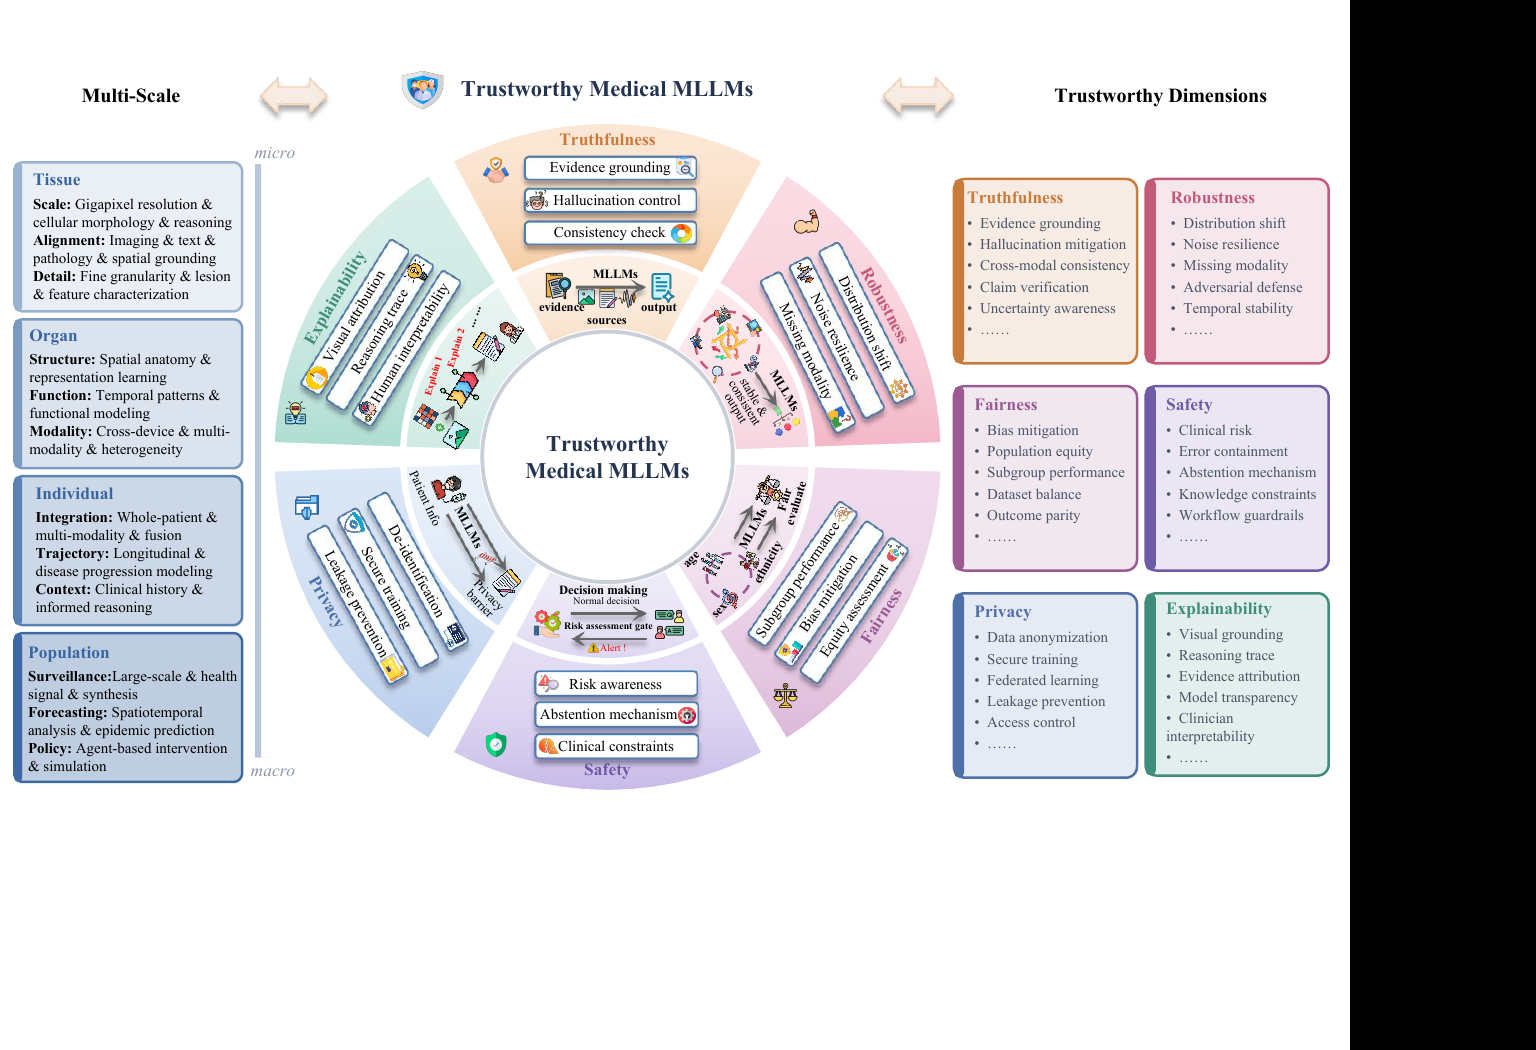
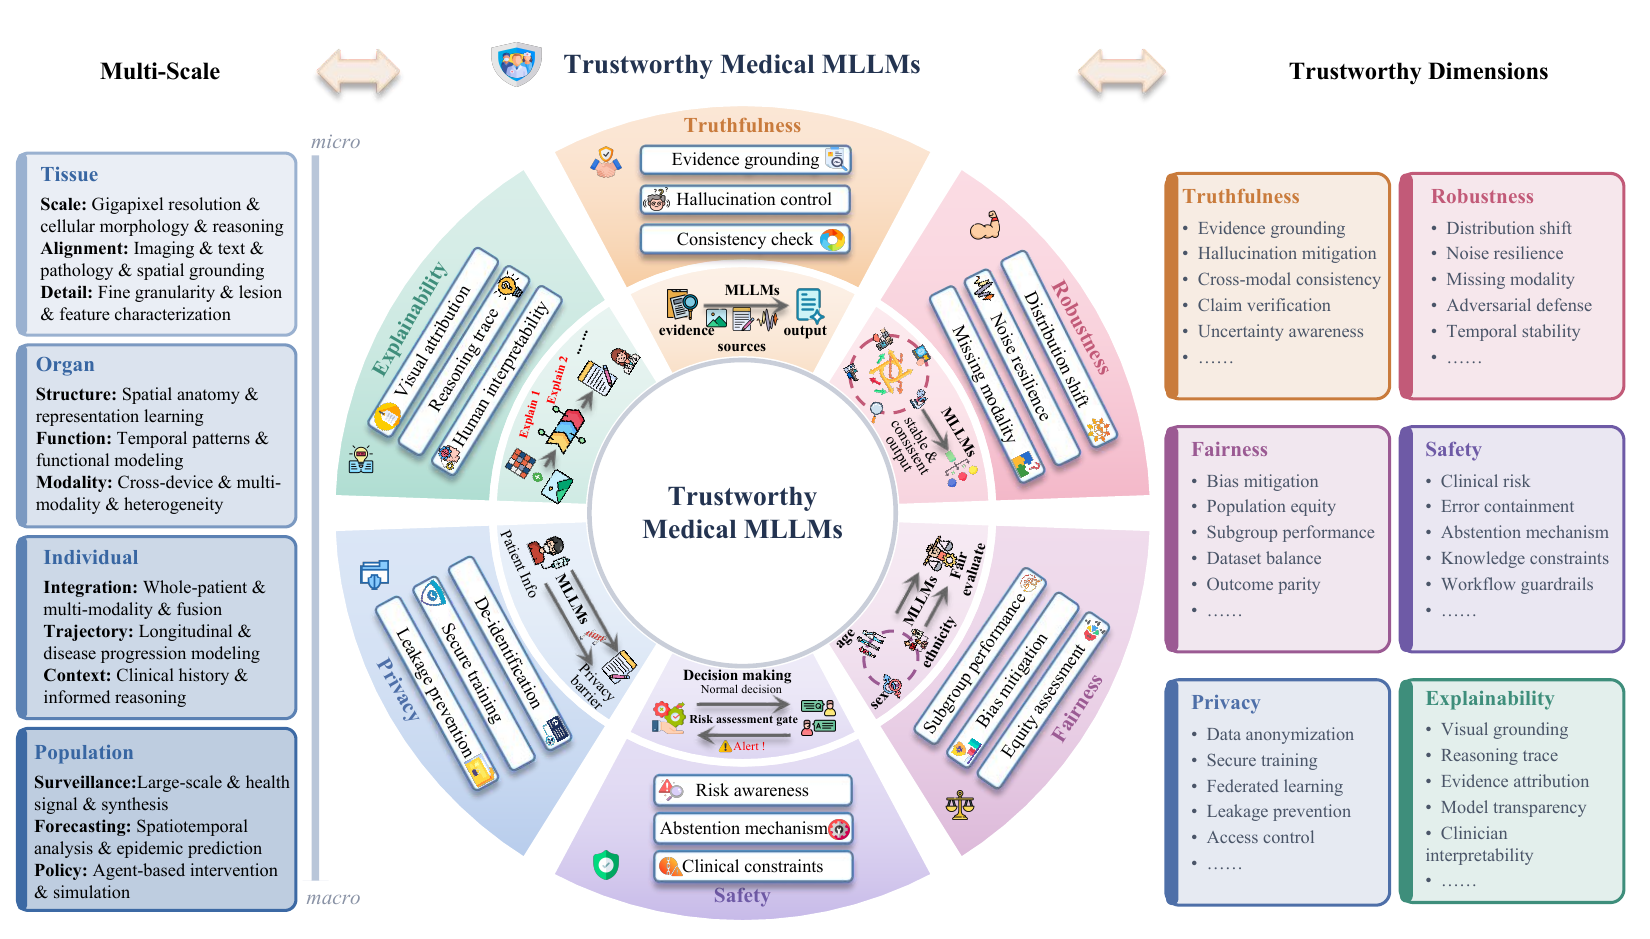
Add complete survey figure suite (#1)

diff --git a/README.md b/README.md
@@ -32,6 +32,7 @@ This is the official companion repository for **“Trustworthy Medical Multimoda
 
 ## 📢 News
 
+- **[2026-08-10]** 🖼 Published the complete seven-figure survey framework: overview plus six trustworthiness dimensions.
 - **[2026-08-10]** ✨ Established the official paper repository with a clear visual identity, quick navigation, and a contribution-ready taxonomy.
 - **[2026-08-10]** 🎉 Released the initial public list with curated seed papers, evaluation resources, and validation rules.
 
@@ -51,6 +52,8 @@ This is the official companion repository for **“Trustworthy Medical Multimoda
   - [1.3 Individual Scale](#13-individual-scale)
   - [1.4 Population Scale](#14-population-scale)
 - [2. Trustworthiness](#2-trustworthiness)
+  - [2.1 Dimension Frameworks](#21-dimension-frameworks)
+  - [2.2 Trustworthiness Methods and Resources](#22-trustworthiness-methods-and-resources)
 - [3. Evaluation and Benchmark](#3-evaluation-and-benchmark)
 - [4. Resources](#4-resources)
 - [How to Contribute](#how-to-contribute)
@@ -242,7 +245,7 @@ The entries below are an initial curated seed set from the current manuscript. T
 
 ## 2. Trustworthiness
 
-**In this section:** [Dimension Definitions](#2-trustworthiness) · [Methods and Resources](#21-trustworthiness-methods-and-resources)
+**In this section:** [Dimension Definitions](#2-trustworthiness) · [Dimension Frameworks](#21-dimension-frameworks) · [Methods and Resources](#22-trustworthiness-methods-and-resources)
 
 The six dimensions are treated as distinct classification targets. A paper may appear in multiple dimensions when each assignment is justified by an explicit evaluation, method, or stated objective.
 
@@ -264,7 +267,59 @@ The six dimensions are treated as distinct classification targets. A paper may a
 | **Privacy** | Protection against memorization, leakage, re-identification, and misuse of sensitive health information. | [CARES](https://arxiv.org/abs/2406.06007) · [Privacy review](https://doi.org/10.3390/info15110697) |
 | **Explainability** | Human-interpretable evidence, localization, rationales, or reasoning traces that can be examined in context. | [PathVG](https://doi.org/10.1007/978-3-032-05169-1_44) · [MedVLM-R1](https://doi.org/10.1007/978-3-032-04981-0_32) · [ScanReason](https://doi.org/10.1007/978-3-031-73242-3_9) |
 
-### 2.1 Trustworthiness Methods and Resources
+### 2.1 Dimension Frameworks
+
+The survey develops a dedicated visual framework for every trustworthiness dimension. Select any figure to open its full-resolution version.
+
+#### Truthfulness
+
+<p align="center">
+  <a href="assets/truthfulness.png"><img src="assets/truthfulness.png" width="920" alt="Truthfulness framework for trustworthy medical MLLMs"/></a>
+  <br/>
+  <em>Multi-source evidence, hallucination failure modes, mitigation strategies, and claim-level validation.</em>
+</p>
+
+#### Robustness
+
+<p align="center">
+  <a href="assets/robustness.png"><img src="assets/robustness.png" width="920" alt="Robustness framework for medical MLLMs"/></a>
+  <br/>
+  <em>Failure modes and mitigations for distribution shift, data perturbation, missing modalities, and prompt volatility.</em>
+</p>
+
+#### Fairness
+
+<p align="center">
+  <a href="assets/fairness.png"><img src="assets/fairness.png" width="920" alt="Fairness framework for medical MLLMs"/></a>
+  <br/>
+  <em>Structural bias, subgroup degradation, and data- and algorithm-centric mitigation strategies.</em>
+</p>
+
+#### Safety
+
+<p align="center">
+  <a href="assets/safety.png"><img src="assets/safety.png" width="920" alt="Safety framework across medical AI scenarios"/></a>
+  <br/>
+  <em>Attack surfaces, clinical consequences, defense mechanisms, and evaluation workflow.</em>
+</p>
+
+#### Privacy
+
+<p align="center">
+  <a href="assets/privacy.png"><img src="assets/privacy.png" width="920" alt="Privacy preservation framework for medical MLLMs"/></a>
+  <br/>
+  <em>Privacy protection across preprocessing, training, and post-processing stages of the model lifecycle.</em>
+</p>
+
+#### Explainability
+
+<p align="center">
+  <a href="assets/explainability.png"><img src="assets/explainability.png" width="760" alt="Explainability framework for medical MLLMs"/></a>
+  <br/>
+  <em>Post-hoc and intrinsic explanations spanning visual evidence, reasoning structures, and clinician interaction.</em>
+</p>
+
+### 2.2 Trustworthiness Methods and Resources
 
 | Method or resource | Venue | Links | Clinical context | Focus and classification rationale |
 |---|---|---|---|---|
@@ -388,7 +443,7 @@ The manuscript is in preparation. Its formal BibTeX entry will be added after th
 
 ## License
 
-The curated list and repository maintenance materials are released under the [MIT License](LICENSE). The survey overview figure in `assets/overview.png` is excluded from the MIT License and remains copyright of the manuscript authors; see [LICENSE](LICENSE) for details.
+The curated list and repository maintenance materials are released under the [MIT License](LICENSE). The manuscript figures in `assets/*.png` are excluded from the MIT License and remain copyright of the manuscript authors; see [LICENSE](LICENSE) for details.
 
 <div align="center">
 
